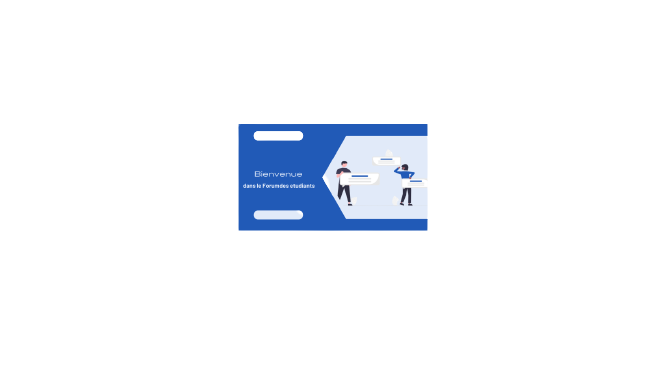
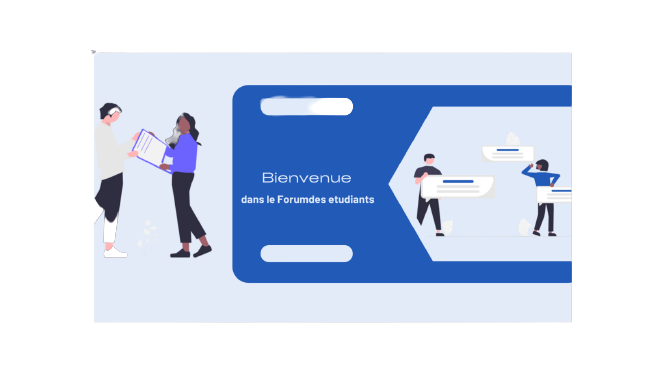
ajout profile

diff --git a/src/app/pages/home/home.page.ts b/src/app/pages/home/home.page.ts
@@ -3,6 +3,7 @@ import { Component, OnInit } from '@angular/core';
 import { ActivatedRoute } from '@angular/router';
 // pour les photos
 import { DomSanitizer } from '@angular/platform-browser';
+// import { HttpClient } from '@angular/common/http';
 @Component({
   selector: 'app-home',
   templateUrl: './home.page.html',
@@ -12,14 +13,39 @@ export class HomePage implements OnInit {
   fullName:string;
   phoneNo:string;
   email:string;
-  profilePicture: File | undefined = undefined;
+  // profilePicture: File | undefined = undefined;
   profilePictureUrl:string | null = null;
   // private domSanitizer: DomSanitize
-  constructor(private route: ActivatedRoute) { 
+
+  // selectedFile: File | null = null;
+  // ,private http: HttpClient
+  constructor(private route: ActivatedRoute) {
   this.fullName = '';
 this.phoneNo = '';
 this.email = '';
+
   }
+
+  // onUpload() {
+  //   const formData = new FormData();
+
+  //   if (this.selectedFile) {
+  //     formData.append('image', this.selectedFile, this.selectedFile.name);
+  //   }
+
+  //   this.http.post('/upload-photo', formData).subscribe((response) => {
+  //     console.log(response);
+  //   });
+
+
+  // }
+
+
+
+
+  // onFileSelected(event: any) {
+  //   this.selectedFile = <File>event.target.files[0];
+  // }
 
   ngOnInit() {
     this.fullName = this.route.snapshot.queryParamMap.get('fullName') || '';
@@ -27,23 +53,9 @@ this.email = '';
     this.email = this.route.snapshot.queryParamMap.get('email') || '';
     this.profilePictureUrl = '/assets/images/'+this.route.snapshot.queryParamMap.get('profilePicture');
     console.log(this.profilePictureUrl);
-    
-    // if (profilePicture) {
-    //   fetch(profilePicture)
-    //     .then(res => res.blob())
-    //     .then(blob => {
-    //       this.profilePictureUrl = URL.createObjectURL(blob);
-    //     })
-    //     .catch(error => {
-    //       console.error(error);
-    //     });
-    // }
-    // if (profilePicture) {
-    //   const objectUrl = URL.createObjectURL(profilePicture);
-    //   this.profilePictureUrl = this.domSanitizer.bypassSecurityTrustUrl(objectUrl);
-    //   }
-   
+
+
   }
-  
+
 
 }

diff --git a/src/app/pages/home/home.page.html b/src/app/pages/home/home.page.html
@@ -1,27 +1,30 @@
 <ion-header [translucent]="true">
   <ion-toolbar>
-    <ion-title></ion-title>
+    <ion-title> Bienvenu dans notre plateform</ion-title>
   </ion-toolbar>
 </ion-header>
 
 <ion-content class="bg-color" [fullscreen]="true">
 <ion-card>
-  <ion-img [src]="profilePictureUrl" *ngIf="profilePictureUrl"></ion-img>
-  <ion-img src="assets/images/header1.png"></ion-img>
+  <ion-img class="accueilE" src="assets/images/im.png"></ion-img>
   <ion-card-header>
     <ion-card-title>
-      Bienvenu dans notre plateform
+      Le Forum des Etudiants
     </ion-card-title>
   </ion-card-header>
   <ion-card-content>
     <div class="EtudiantInscrit">
-      <p>Fullname: {{fullName}}</p>
-      <p>Phone no: {{phoneNo}}</p>
-      <p>Email: {{email}}</p>
-      <img [src]="profilePictureUrl" alt="Profile Picture" *ngIf="profilePictureUrl" />
+      <ion-img class="profileE" [src]="profilePictureUrl" *ngIf="profilePictureUrl"></ion-img>
 
+      <p class="listE">Fullname: {{fullName}}</p>
+      <p class="listE">Phone no: {{phoneNo}}</p>
+      <p class="listE">Email: {{email}}</p>
 
     </div>
+    <ion-item>
+      <!-- <input type="file" (change)="onFileSelected($event)"> -->
+    </ion-item>
+    <!-- <button (click)="onUpload()">Upload Photo</button> -->
   </ion-card-content>
 </ion-card>
   <!-- <div class="etudiant"> -->

diff --git a/src/app/pages/home/home.page.scss b/src/app/pages/home/home.page.scss
@@ -1,9 +1,30 @@
 ion-header{
   position: absolute;
+  --ion-background-color: #1248A0;
 }
 ion-content{
   --ion-background-color:transparent;
 }
 .bg-color{
   background:#E1EAF9!important;
+}
+ion-card-title{
+  color: #1248A0;
+}
+ion-toolbar{
+  color: #E1EAF9!important;
+  // color:#1248A0;
+}
+.accueilE{
+  padding-top: 60px;
+}
+.profileE{
+  margin-right: 170px;
+
+}
+.listE{
+  color: #FFF;
+  font-size: 16px;
+  background: #1248A0;
+  font-family: system-ui, -apple-system, BlinkMacSystemFont, 'Segoe UI', Roboto, Oxygen, Ubuntu, Cantarell, 'Open Sans', 'Helvetica Neue', sans-serif;
 }

diff --git a/src/app/pages/login/login.page.scss b/src/app/pages/login/login.page.scss
@@ -1,19 +1,27 @@
 ion-content{
-    --ion-backgroound-color:#E1EAF9!important;
+    --ion-background-color:#E1EAF9!important;
 }
 ion-card{
-    --ion-backgroound-color:transparent;
+    --ion-background-color:transparent;
     box-shadow: none !important;
     // .ion-no-margin{
 
     // }
+
 }
--ion-heder{
+.ion-no-border{
+  background:#E1EAF9;
+  color: #080808;
+}
+ion-header{
     position: absolute;
+    --ion-background-color:#E1EAF9!important;
+
 }
 ion-toolbar{
     --ion-backgroound-color:transparent;
     opacity: 0;
+
 }
 ion-card-title{
   margin-top: 30px;

diff --git a/src/app/pages/singup/singup.page.scss b/src/app/pages/singup/singup.page.scss
@@ -5,10 +5,11 @@ ion-content{
   background: #E1EAF9!important;
 }
 .fleche{
-color: #215AB7;
+color: #53565A;
 }
 ion-header{
   position: absolute;
+  --ion-background-color: #1248A0;
 }
 ion-toolbar{
   --ion-background-color:transparent;

diff --git a/src/app/pages/login/login.page.html b/src/app/pages/login/login.page.html
@@ -1,6 +1,6 @@
 <ion-header class="ion-no-boder" >
   <ion-toolbar>
-    <!-- <ion-title>login</ion-title> -->
+    <ion-title>Plateforme des Etudiants</ion-title>
   </ion-toolbar>
 </ion-header>
 

diff --git a/src/app/pages/loginscreen/loginscreen.page.scss b/src/app/pages/loginscreen/loginscreen.page.scss
@@ -1,8 +1,9 @@
 ion-header{
 position: absolute;
+--ion-background-color: #1248A0;
 }
 .fleche1{
-  color: #E1EAF9!important;
+  color: #53565A;
 }
 ion-toolbar{
 --ion-background-color:transparent;
